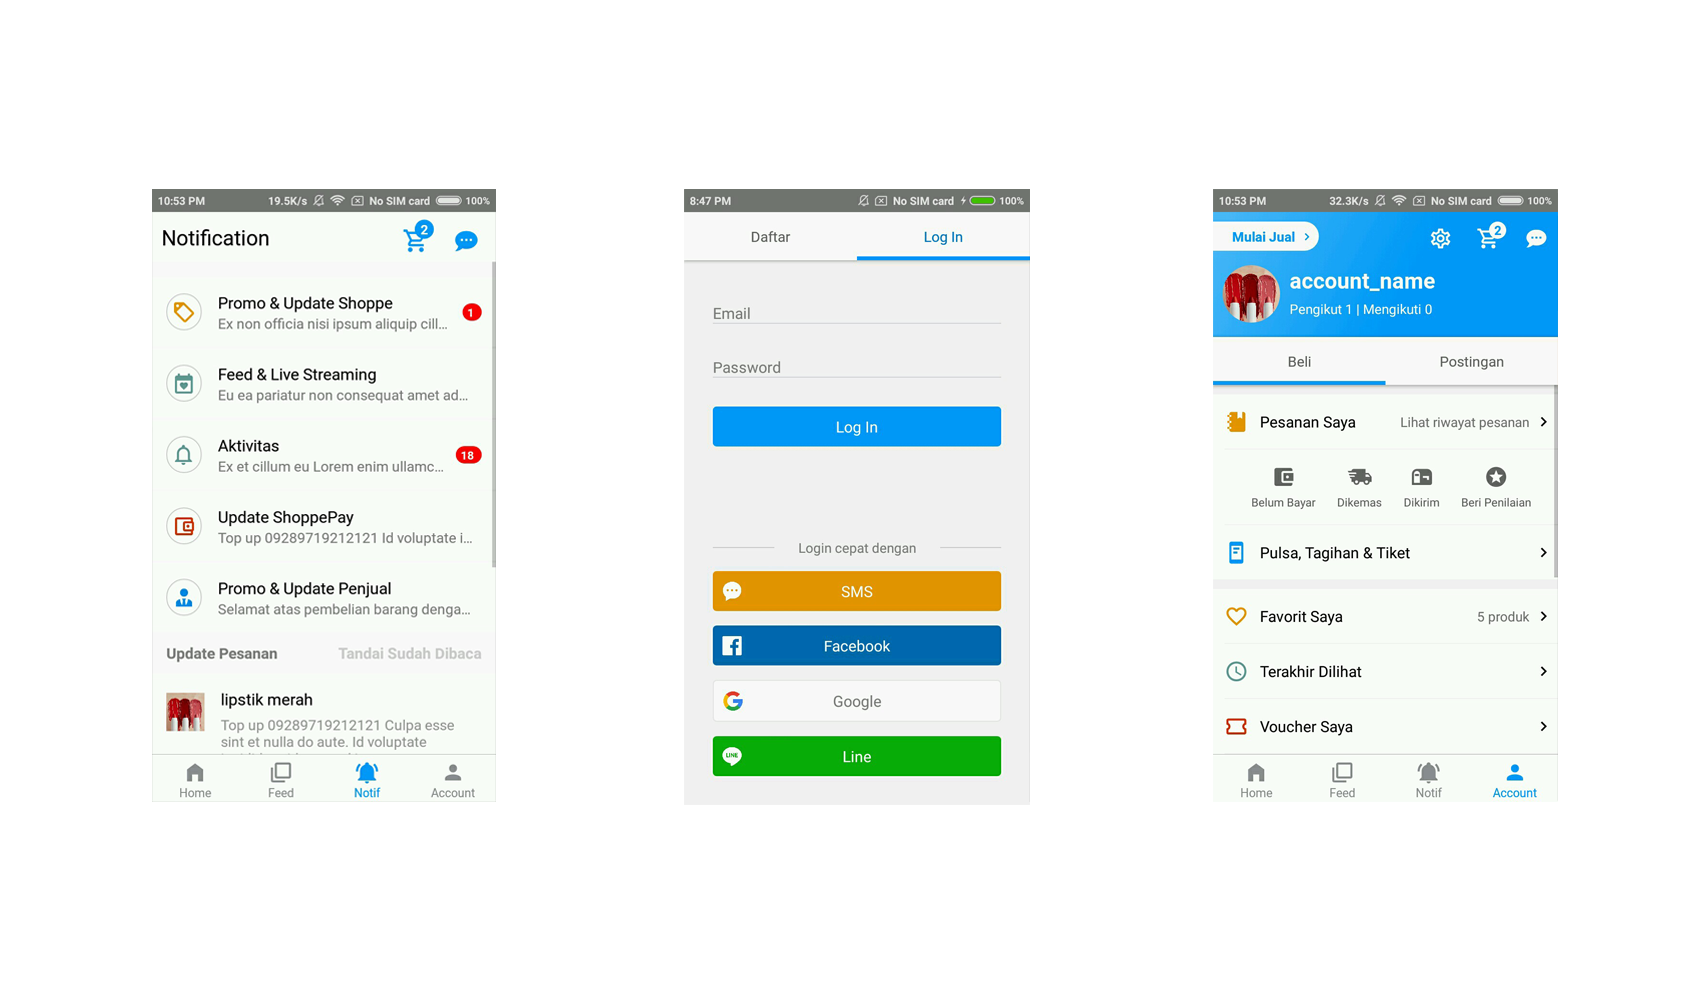
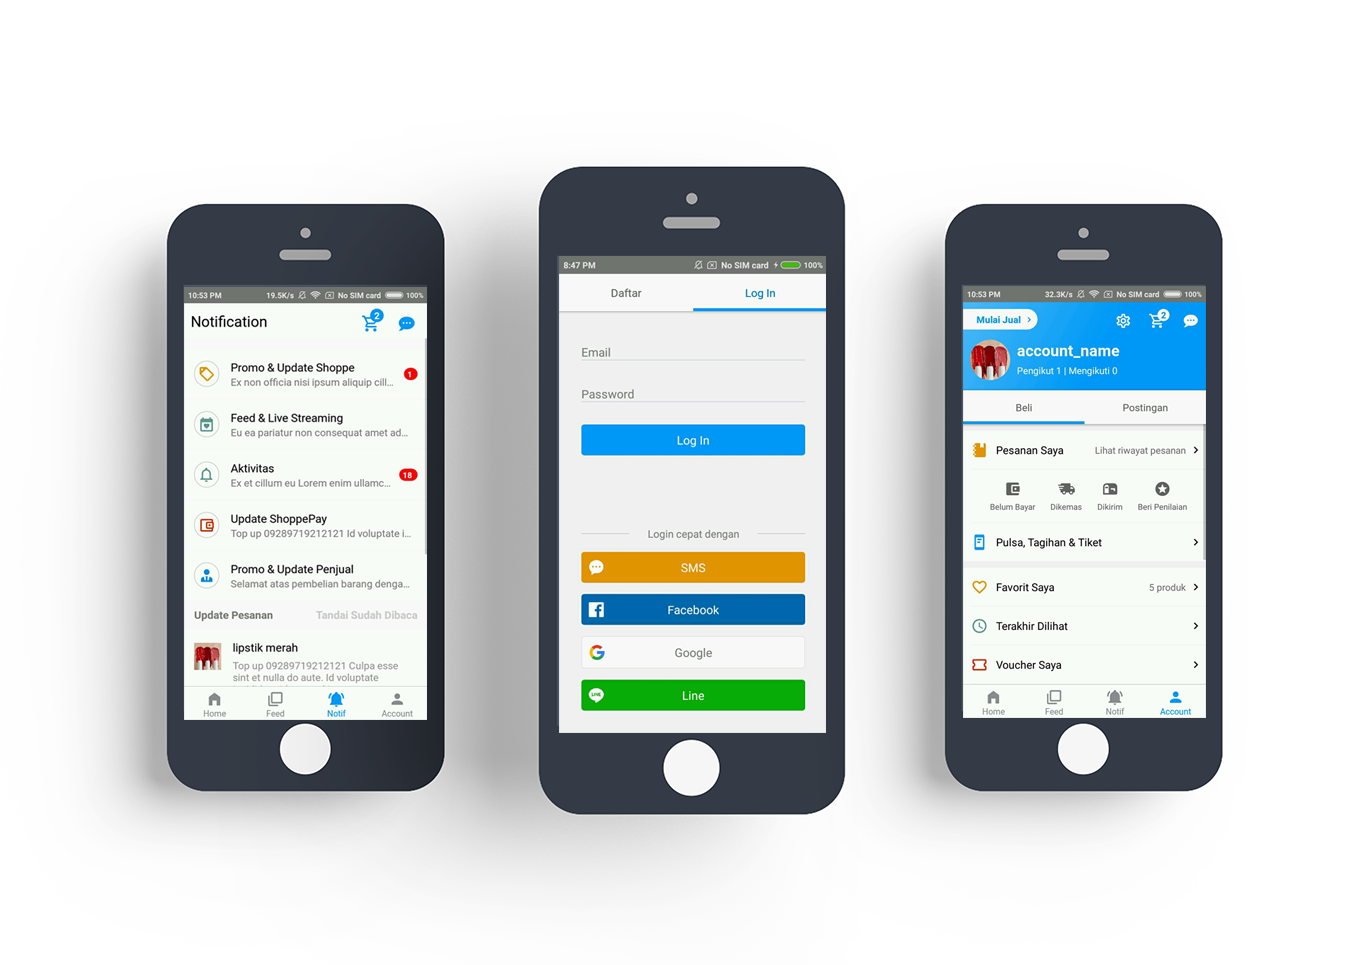
edit image portfolio

diff --git a/public/index.html b/public/index.html
@@ -59,38 +59,6 @@
         </div>
       </div>
 
-      <div class="row mt-5 justify-content-center" data-aos="zoom-in" data-aos-delay="250">
-        <div class="col-xl-2 col-md-4 col-6">
-          <div class="icon-box">
-            <i class="ri-store-line"></i>
-            <h3><a href="">Lorem Ipsum</a></h3>
-          </div>
-        </div>
-        <div class="col-xl-2 col-md-4 col-6 ">
-          <div class="icon-box">
-            <i class="ri-bar-chart-box-line"></i>
-            <h3><a href="">Dolor Sitema</a></h3>
-          </div>
-        </div>
-        <div class="col-xl-2 col-md-4 col-6 mt-4 mt-md-0">
-          <div class="icon-box">
-            <i class="ri-calendar-todo-line"></i>
-            <h3><a href="">Sedare Perspiciatis</a></h3>
-          </div>
-        </div>
-        <div class="col-xl-2 col-md-4 col-6 mt-4 mt-xl-0">
-          <div class="icon-box">
-            <i class="ri-paint-brush-line"></i>
-            <h3><a href="">Magni Dolores</a></h3>
-          </div>
-        </div>
-        <div class="col-xl-2 col-md-4 col-6 mt-4 mt-xl-0">
-          <div class="icon-box">
-            <i class="ri-database-2-line"></i>
-            <h3><a href="">Nemos Enimade</a></h3>
-          </div>
-        </div>
-      </div>
     </div>
   </section><!-- End Hero -->
 
@@ -105,7 +73,7 @@
             <img src="assets/img/about.jpg" class="img-fluid" alt="">
           </div>
           <div class="col-lg-6 pt-4 pt-lg-0 order-2 order-lg-1 content" data-aos="fade-right" data-aos-delay="100">
-            <h3>Voluptatem dignissimos provident quasi corporis voluptates sit assumenda.</h3>
+            <h3>Your smart solution for transform to digital business</h3>
             <p class="font-italic">
               Lorem ipsum dolor sit amet, consectetur adipiscing elit, sed do eiusmod tempor incididunt ut labore et dolore
               magna aliqua.
@@ -115,10 +83,6 @@
               <li><i class="ri-check-double-line"></i> Duis aute irure dolor in reprehenderit in voluptate velit.</li>
               <li><i class="ri-check-double-line"></i> Ullamco laboris nisi ut aliquip ex ea commodo consequat. Duis aute irure dolor in reprehenderit in voluptate trideta storacalaperda mastiro dolore eu fugiat nulla pariatur.</li>
             </ul>
-            <p>
-              Ullamco laboris nisi ut aliquip ex ea commodo consequat. Duis aute irure dolor in reprehenderit in voluptate
-              velit esse cillum dolore eu fugiat nulla pariatur. Excepteur sint occaecat cupidatat non proident
-            </p>
           </div>
         </div>
 
@@ -134,23 +98,38 @@
           <p>Check our Services</p>
         </div>
 
-        <div class="row">
+        <div class="row">          
           <div class="col-lg-4 col-md-6 d-flex align-items-stretch" data-aos="zoom-in" data-aos-delay="100">
             <div class="icon-box">
-              <div class="icon"><i class="icofont-web"></i></div>
-              <h4><a href="">Website Development</a></h4>
-              <p>Voluptatum deleniti atque corrupti quos dolores et quas molestias excepturi</p>
+              <div class="icon"><i class="icofont-paint"></i></div>
+              <h4><a href="">UI/UX Design</a></h4>
+              <p>Creating user-friendly interface and made special experience for every customer</p>
             </div>
           </div>
 
           <div class="col-lg-4 col-md-6 d-flex align-items-stretch mt-4 mt-md-0" data-aos="zoom-in" data-aos-delay="200">
             <div class="icon-box">
-              <div class="icon"><i class="icofont-smart-phone"></i></div>
-              <h4><a href="">App Development</a></h4>
-              <p>Duis aute irure dolor in reprehenderit in voluptate velit esse cillum dolore</p>
+              <div class="icon"><i class="icofont-web"></i></div>
+              <h4><a href="">Web Development</a></h4>
+              <p>Making your own branding go digital and boost online customer experience</p>
             </div>
           </div>
-
+          
+          <div class="col-lg-4 col-md-6 d-flex align-items-stretch mt-4 mt-md-0" data-aos="zoom-in" data-aos-delay="200">
+            <div class="icon-box">
+              <div class="icon"><i class="icofont-smart-phone"></i></div>
+              <h4><a href="">Mobile App Development</a></h4>
+              <p>Put your own business or product easily access just by the hands</p>
+            </div>
+          </div>
+          
+          <!-- <div class="col-lg-4 col-md-6 d-flex align-items-stretch mt-4 mt-md-0" data-aos="zoom-in" data-aos-delay="200">
+            <div class="icon-box">
+              <div class="icon"><i class="icofont-live-support"></i></div>
+              <h4><a href="">Support</a></h4>
+              <p>Help all dificulties in use and maintanance application</p>
+            </div>
+          </div> -->
         </div>
 
       </div>
@@ -171,6 +150,7 @@
               <li data-filter="*" class="filter-active">All</li>
               <li data-filter=".filter-app">App</li>
               <li data-filter=".filter-web">Web</li>
+              <li data-filter=".filter-ui">UI/UX</li>
             </ul>
           </div>
         </div>
@@ -203,7 +183,7 @@
             </div>
           </div>
 
-          <div class="col-lg-4 col-md-6 portfolio-item filter-app">
+          <div class="col-lg-4 col-md-6 portfolio-item filter-ui">
             <div class="portfolio-wrap">
               <img src="assets/img/toko/1.png" class="img-fluid" alt="">
               <div class="portfolio-info">

diff --git a/Readme.md b/Readme.md
@@ -1,0 +1,16 @@
+# CL-Agency
+---
+
+| Subject | Description                          |
+| ------- | ------------------------------------ |
+| Name    | CL Agency                            |
+| Type    | Company Profile                      |
+| Hosting | Firebase                             |
+| Address | [Link](https://www.clagency.web.app) |
+---
+
+#### Todo list:
+- Portfolio image mockup (edbert)
+- Word about section
+- Portfolio adding more
+- Contact form test
